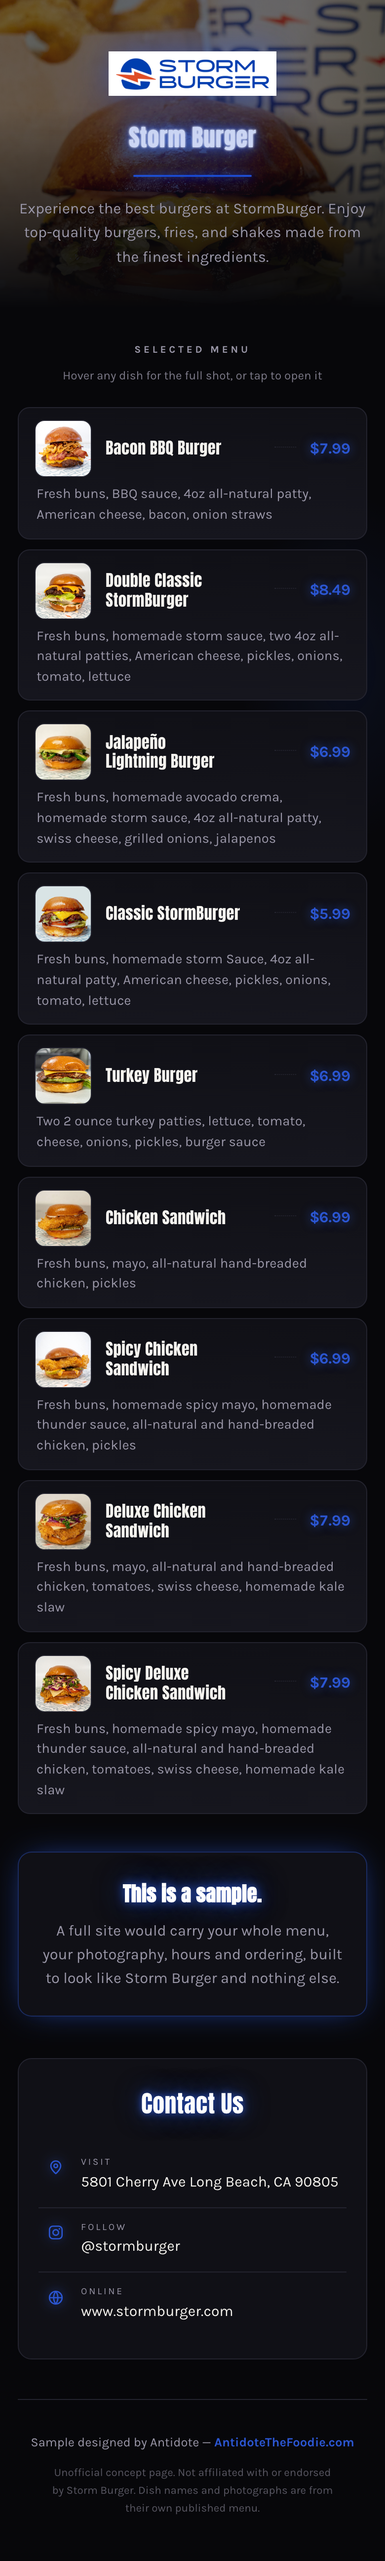
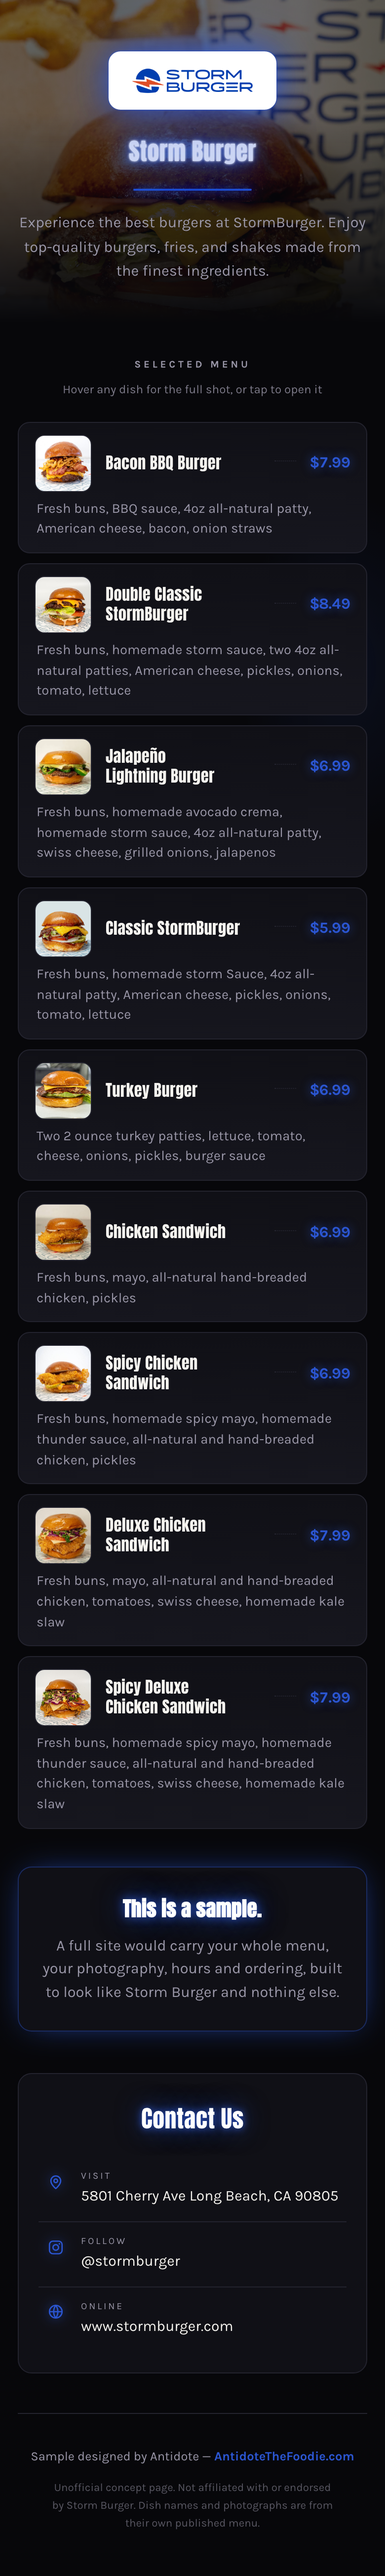
Add restaurant sample pages
Unofficial concept pages for outreach. noindex + robots disallowed.

diff --git a/samples/storm-burger/index.html b/samples/storm-burger/index.html
@@ -80,6 +80,12 @@
     max-width:170px;max-height:88px;width:auto;height:auto;margin:0 auto 30px;
     display:block;filter:drop-shadow(0 0 18px color-mix(in srgb,var(--neon) 55%,transparent));
   }
+  /* logo ships with a baked-in white background — make it a deliberate plate */
+  .logo.plate{
+    background:#fff;padding:12px 18px;border-radius:12px;max-height:96px;
+    box-shadow:0 0 0 1px color-mix(in srgb,var(--neon) 40%,transparent),
+               0 0 34px -6px var(--neon);
+  }
   .eyebrow{
     font-size:.66rem;letter-spacing:.3em;text-transform:uppercase;
     color:var(--neon);font-weight:700;margin-bottom:16px;
@@ -264,7 +270,7 @@
   <header class="hero">
     <div class="hero-img"><img src="img/53944c432837.jpg" alt="" aria-hidden="true"></div>
     <div class="hero-inner">
-      <img class="logo" src="img/c0b7f2ff00e2.png" alt="Storm Burger logo">
+      <img class="logo plate" src="img/c0b7f2ff00e2.png" alt="Storm Burger logo">
       
       <h1>Storm Burger</h1>
       <div class="tube"></div>
